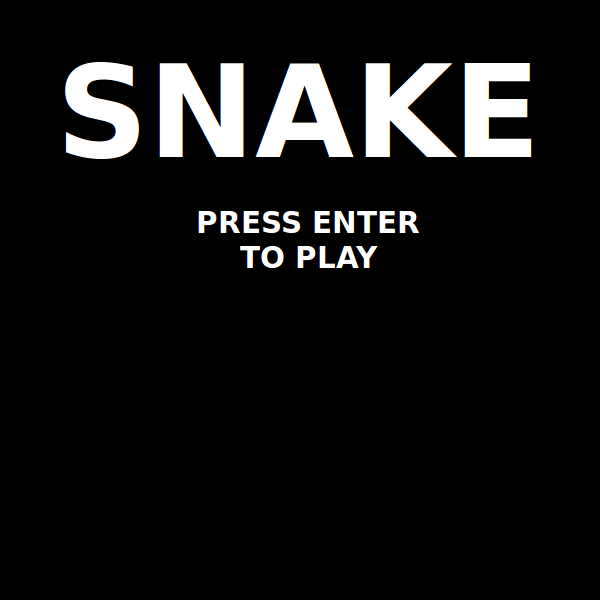
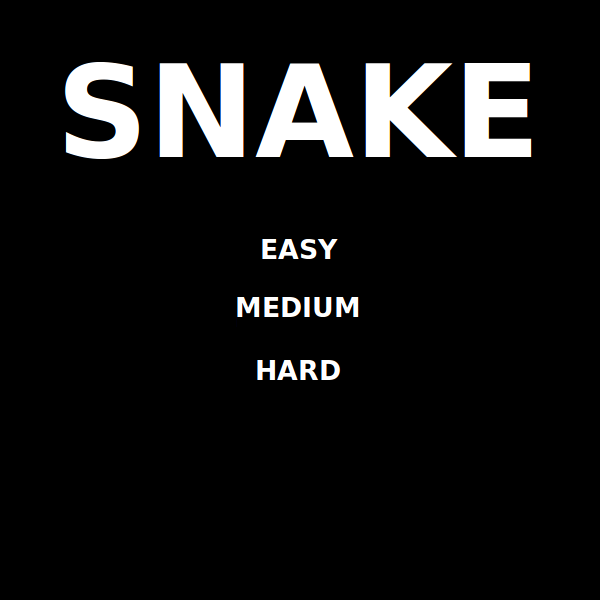
Completed game

Changed region(s): [[0.33, 0.33, 0.72, 0.45], [0.39, 0.48, 0.6, 0.54], [0.42, 0.6, 0.57, 0.63]]

diff --git a/Snake/Source/main.cpp b/Snake/Source/main.cpp
@@ -31,6 +31,8 @@ void updateDisplay();
 void drawSquare(int, int);
 void drawSnake();
 void drawTitle();
+void drawGameOver();
+void drawArrow(int, int);
 void debugShaders(GLint, GLint);
 
 struct Coord
@@ -45,19 +47,21 @@ enum Direction
 
 Coord goal;
 list<Coord> snake;
-bool running = true, alive = false, inMenu = true;
+bool running = true, alive = false, inMenu = true, paused = false;
+std::chrono::system_clock::time_point frameStart;
 Direction dir = UP;
-int score = 0;
+int score = 0, arrowHeight = 300, speedIndex = 0;
 SDL_Window* window;
 SDL_GLContext glContext;
 GLuint vbo, vao, ebo, tex, vertexShader, fragmentShader, shaderProgram, posAttrib, colAttrib, texAttrib;
 GLuint textures[2];
 GLint uniSquareTrans;
 unsigned char* image;
-glm::mat4 squareTrans;
-const int WIDTH = 600, HEIGHT = 600, SQUARE_COUNT = 60, FPS = 30, WAIT_TIME_MILLIS = 1000 / FPS, START_X = 1, START_Y = 1;
+glm::mat4 squareTrans, arrowTrans;
+const int WIDTH = 600, HEIGHT = 600, SQUARE_COUNT = 60, START_X = 1, START_Y = 1, GROWTH_ON_POINT = 5;
 const float SQUARE_SIZE = (2.0f / SQUARE_COUNT);
 float white[] = {1.0f, 1.0f, 1.0f};
+int frameRate[] = {40, 30, 20}; //possible frame rates. element 0 = easy difficulty, 1 = medium, 2 = hard
 const string TITLE = "Snake";
 GLfloat squareVertices[] =
 {
@@ -110,9 +114,9 @@ int main()
 
 	while (running)
 	{
-		drawTitle();
 		while (inMenu)
 		{
+			drawTitle();
 			takeInput();
 		}
 
@@ -120,11 +124,15 @@ int main()
 
 		while(alive)
 		{
-			takeInput();
+			frameStart = std::chrono::system_clock::now();
+			do
+				takeInput();
+			while (paused && running);
 			updateGame();
 			updateDisplay();
-			std::this_thread::sleep_for(std::chrono::milliseconds(WAIT_TIME_MILLIS));
+			std::this_thread::sleep_until(frameStart + std::chrono::milliseconds(frameRate[speedIndex]));
 		}
+
 	}
 
 	destroyDisplay();
@@ -151,24 +159,41 @@ void takeInput()
 			switch(windowEvent.key.keysym.sym)
 			{
 			case SDLK_UP:
-				if (dir != DOWN)
+				if (dir != DOWN && !paused)
 					dir = UP;
+
+				if (inMenu)
+				{
+					speedIndex = ((speedIndex + 2) % 3);
+				}
 			break;
 			case SDLK_LEFT:
-				if (dir != RIGHT)
+				if (dir != RIGHT && !paused)
 					dir = LEFT;
 			break;
 			case SDLK_DOWN:
-				if (dir != UP)
+				if (dir != UP && !paused)
 					dir = DOWN;
+
+				if (inMenu)
+				{
+					speedIndex = ((speedIndex + 1) % 3);
+				}
 			break;
 			case SDLK_RIGHT:
-				if (dir != LEFT)
+				if (dir != LEFT && !paused)
 					dir = RIGHT;
 			break;
 			case SDLK_RETURN:
-				inMenu = false;
-				alive = true;
+				if (inMenu)
+				{
+					inMenu = false;
+					alive = true;
+				}
+				else
+				{
+					paused = !paused;
+				}
 			break;
 			}
 		}
@@ -177,10 +202,11 @@ void takeInput()
 
 void gameOver()
 {
-	std::cout << "GAME OVER" << std::endl;
-	std::cout << "FINAL SCORE: " << score << std::endl;
 	alive = false;
+	drawGameOver();
+	std::this_thread::sleep_for(std::chrono::milliseconds(2000));
 	inMenu = true;
+	SDL_SetWindowTitle(window, "Snake");
 }
 
 void updateGame()
@@ -198,9 +224,39 @@ void updateGame()
 		SDL_SetWindowTitle(window, oss.str().c_str());
 
 		Coord newSeg;
-		newSeg.x = snake.back().x - 1;
-		newSeg.y = snake.back().y - 1;
-		snake.push_back(newSeg);
+		if (snake.size() == 1)
+		{
+			switch (dir)
+			{
+			case UP:
+				newSeg.x = snake.back().x;
+				newSeg.y = snake.back().y - 1;
+			break;
+			case LEFT:
+				newSeg.x = snake.back().x + 1;
+				newSeg.y = snake.back().y;
+			break;
+			case DOWN:
+				newSeg.x = snake.back().x;
+				newSeg.y = snake.back().y + 1;
+			break;
+			case RIGHT:
+				newSeg.x = snake.back().x - 1;
+				newSeg.y = snake.back().y;
+			break;
+			}
+		}
+		else
+		{
+			newSeg.x = snake.back().x;
+			newSeg.y = snake.back().y;
+
+		}
+
+		for (int t = 0; t < GROWTH_ON_POINT; t++)
+		{
+			snake.push_back(newSeg);
+		}
 
 		goal.x = rand() % 59 + 1;
 		goal.y = rand() % 59 + 1;
@@ -258,16 +314,44 @@ void drawTitle()
 	glUniformMatrix4fv(uniSquareTrans, 1, GL_FALSE, glm::value_ptr(squareTrans));
 	glDrawElements(GL_TRIANGLES, 6, GL_UNSIGNED_INT, 0);
 
+	drawArrow(24, 32 - 3 * speedIndex);
+
+	SDL_GL_SwapWindow(window);
+}
+
+void drawGameOver()
+{
+	glClearColor(0.0f, 0.0f, 0.0f, 1.0f);
+	glClear(GL_COLOR_BUFFER_BIT | GL_DEPTH_BUFFER_BIT);
+
+	squareTrans = glm::mat4();
+	glUniform1i(glGetUniformLocation(shaderProgram, "tex"), 2);
+	squareTrans = glm::scale(squareTrans, glm::vec3(1.0f, 1.0f, 1.0f));
+	glUniformMatrix4fv(uniSquareTrans, 1, GL_FALSE, glm::value_ptr(squareTrans));
+	glDrawElements(GL_TRIANGLES, 6, GL_UNSIGNED_INT, 0);
+
 	SDL_GL_SwapWindow(window);
 }
 
 void drawSquare(int x, int y)
 {
 	squareTrans = glm::mat4();
-	squareTrans = glm::translate(squareTrans, glm::vec3(SQUARE_SIZE * x - 1.0f + SQUARE_SIZE * 0.5f, SQUARE_SIZE * y - 1.0f + SQUARE_SIZE * 0.5f, 0.0f));
+	squareTrans = glm::translate(squareTrans, glm::vec3(SQUARE_SIZE * (x + 0.5f) - 1.0f, SQUARE_SIZE * (y + 0.5f) - 1.0f, 0.0f));
 	squareTrans = glm::scale(squareTrans, SQUARE_SIZE * glm::vec3(1.0f, 1.0f, 1.0f));
 	glUniformMatrix4fv(uniSquareTrans, 1, GL_FALSE, glm::value_ptr(squareTrans));
 	glDrawElements(GL_TRIANGLES, 6, GL_UNSIGNED_INT, 0);
+}
+
+void drawArrow(int x, int y)
+{
+	glUniform1i(glGetUniformLocation(shaderProgram, "tex"), 1);
+
+	arrowTrans = glm::mat4();
+	arrowTrans = glm::translate(arrowTrans, glm::vec3(SQUARE_SIZE * (x + 0.5f) - 1.0f, SQUARE_SIZE * (y + 0.5f) - 1.0f, 0.0f));
+	arrowTrans = glm::scale(arrowTrans, SQUARE_SIZE * glm::vec3(1.0f, 1.0f, 1.0f));
+	arrowTrans = glm::rotate(arrowTrans, 225.0f, glm::vec3(0.0f, 0.0f, 1.0f));
+	glUniformMatrix4fv(uniSquareTrans, 1, GL_FALSE, glm::value_ptr(arrowTrans));
+	glDrawElements(GL_TRIANGLES, 3, GL_UNSIGNED_INT, 0);
 }
 
 void initialiseGame()
@@ -283,7 +367,7 @@ void initialiseGame()
 	goal.y = rand() % 60;
 	dir = UP;
 
-	SDL_SetWindowTitle(window, "Snake");
+	SDL_SetWindowTitle(window, "Snake - Score: 0");
 	score = 0;
 
 	glUniform1i(glGetUniformLocation(shaderProgram, "tex"), 1);
@@ -361,7 +445,7 @@ void initialiseGL()
 	glLinkProgram(shaderProgram);
 	glUseProgram(shaderProgram);
 
-	glGenTextures(2, textures);
+	glGenTextures(3, textures);
 
 	int width, height;
 	unsigned char* image;
@@ -379,6 +463,15 @@ void initialiseGL()
 	glBindTexture(GL_TEXTURE_2D, textures[1]);
 	glTexImage2D(GL_TEXTURE_2D, 0, GL_RGB, 1, 1, 0, GL_RGB, GL_FLOAT, white);
 	glUniform1i(glGetUniformLocation(shaderProgram, "tex"), 1);
+
+	glTexParameteri(GL_TEXTURE_2D, GL_TEXTURE_MIN_FILTER, GL_NEAREST);
+	glTexParameteri(GL_TEXTURE_2D, GL_TEXTURE_MAG_FILTER, GL_NEAREST);
+
+	glActiveTexture(GL_TEXTURE2);
+	glBindTexture(GL_TEXTURE_2D, textures[2]);
+	image = SOIL_load_image("gameOver.png", &width, &height, 0, SOIL_LOAD_RGB);
+	glTexImage2D(GL_TEXTURE_2D, 0, GL_RGB, width, height, 0, GL_RGB, GL_UNSIGNED_BYTE, image);
+	glUniform1i(glGetUniformLocation(shaderProgram, "tex"), 2);
 
 	glTexParameteri(GL_TEXTURE_2D, GL_TEXTURE_MIN_FILTER, GL_NEAREST);
 	glTexParameteri(GL_TEXTURE_2D, GL_TEXTURE_MAG_FILTER, GL_NEAREST);
